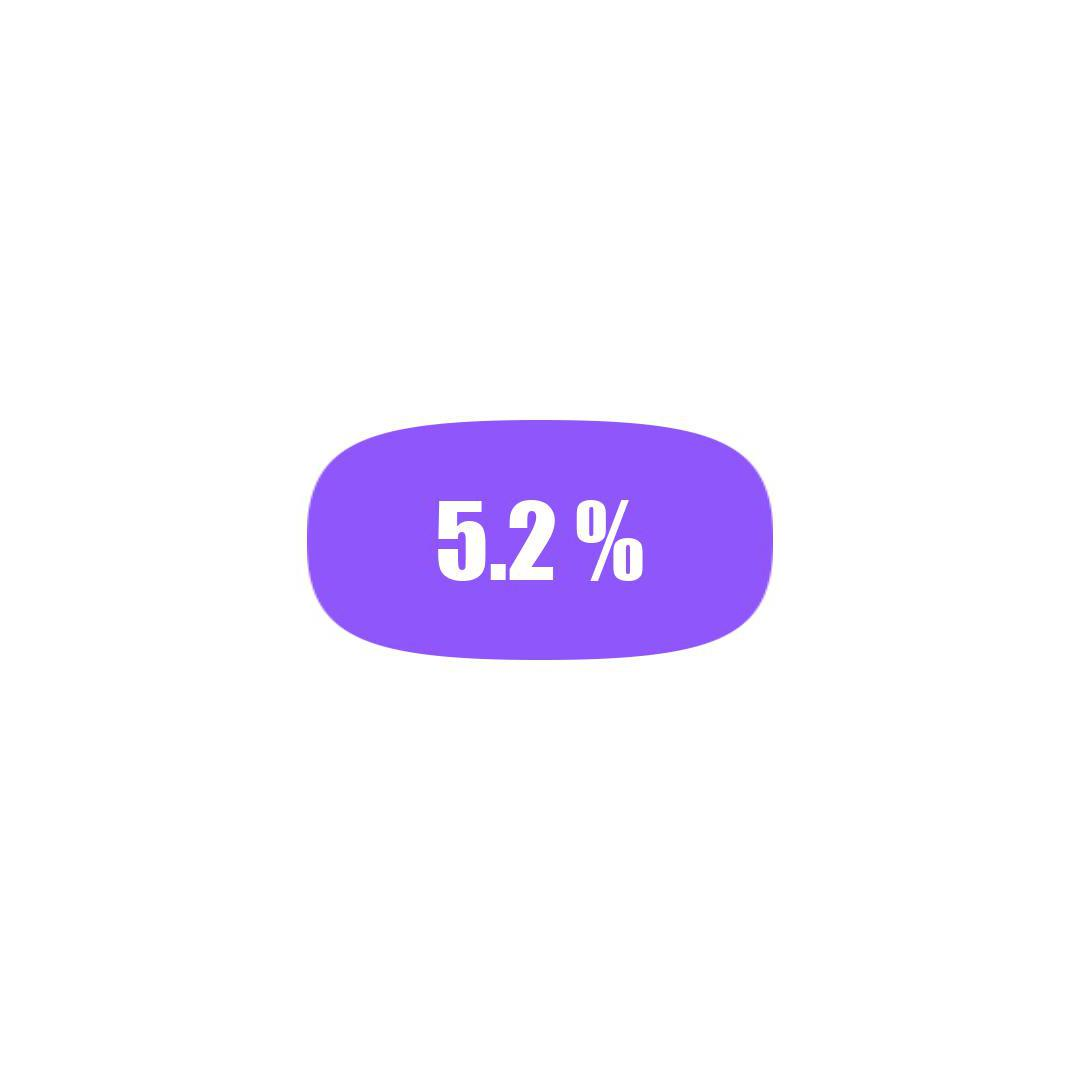
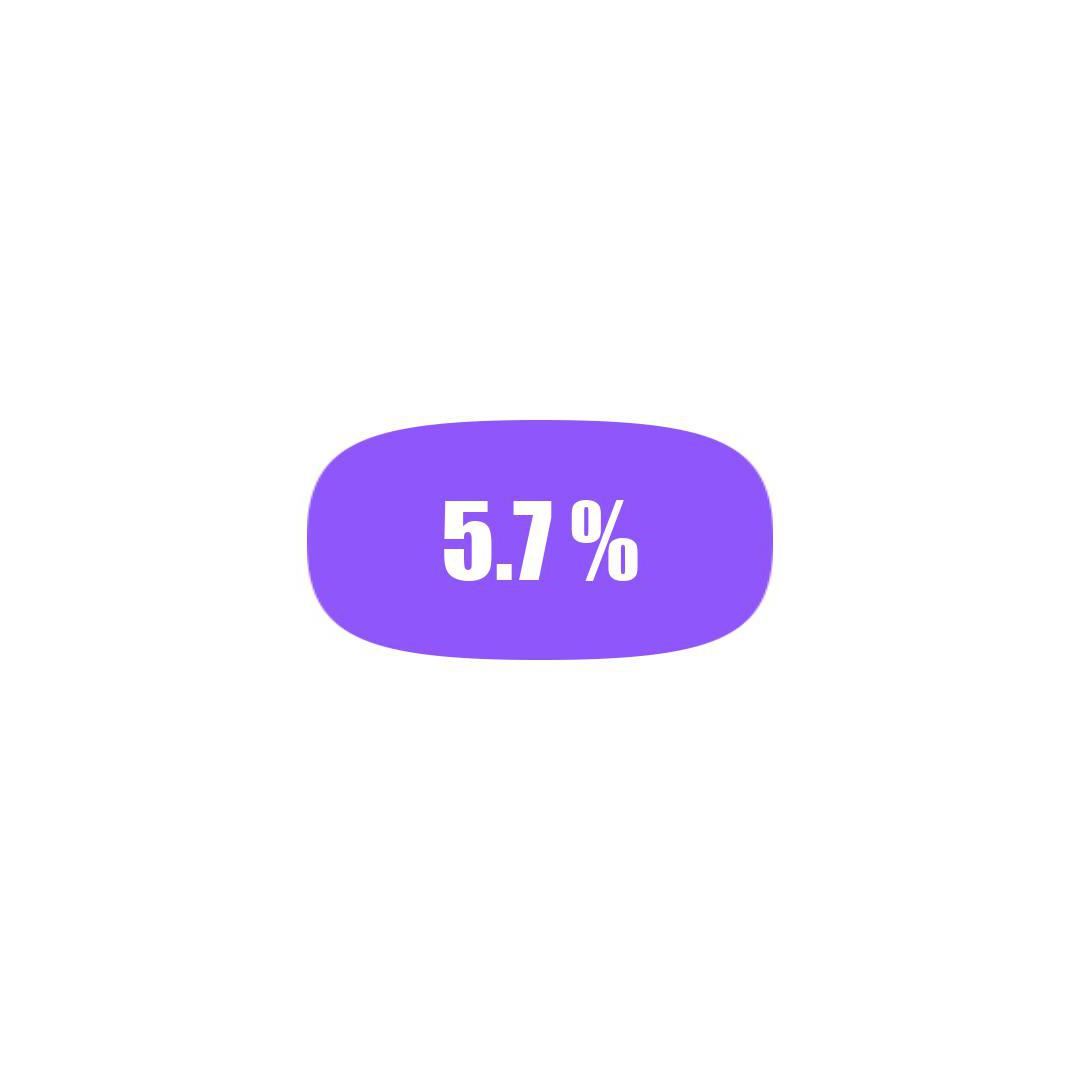
be able to follow with hashtag

Changed region(s): [[0.3972, 0.4583, 0.6111, 0.55]]

diff --git a/insta.py b/insta.py
@@ -92,6 +92,17 @@ def likeWithHashtag(hashtag="fuck"):
     print("[ " + Color.YELLOW + "+" + Color.END + " ] likeWithHashtag() is finished\n")
     time.sleep(3)
 
+    element_button_close = driver.find_element_by_xpath("/html/body/div[4]/button[1]")
+    element_button_close.click()
+
+    time.sleep(3)
+    element_button_follow = driver.find_element_by_xpath("/html/body/div[4]/div[2]/div/article/header/div[2]/div[1]/div[2]/button")
+    t = element_button_follow.text
+    print(t)
+    
+def followWIthHashtag(hashtag="fuck"):
+    pass
+
 def main():
     login()
     deletePopup()

diff --git a/generateImage.py b/generateImage.py
@@ -32,7 +32,7 @@ def main():
                 past_days += current_days
 
 
-    #past_days = 16
+    #past_days = 20
     percent = past_days / all_days
     percent_str = '{:.1f}'.format( percent * 100)
 
